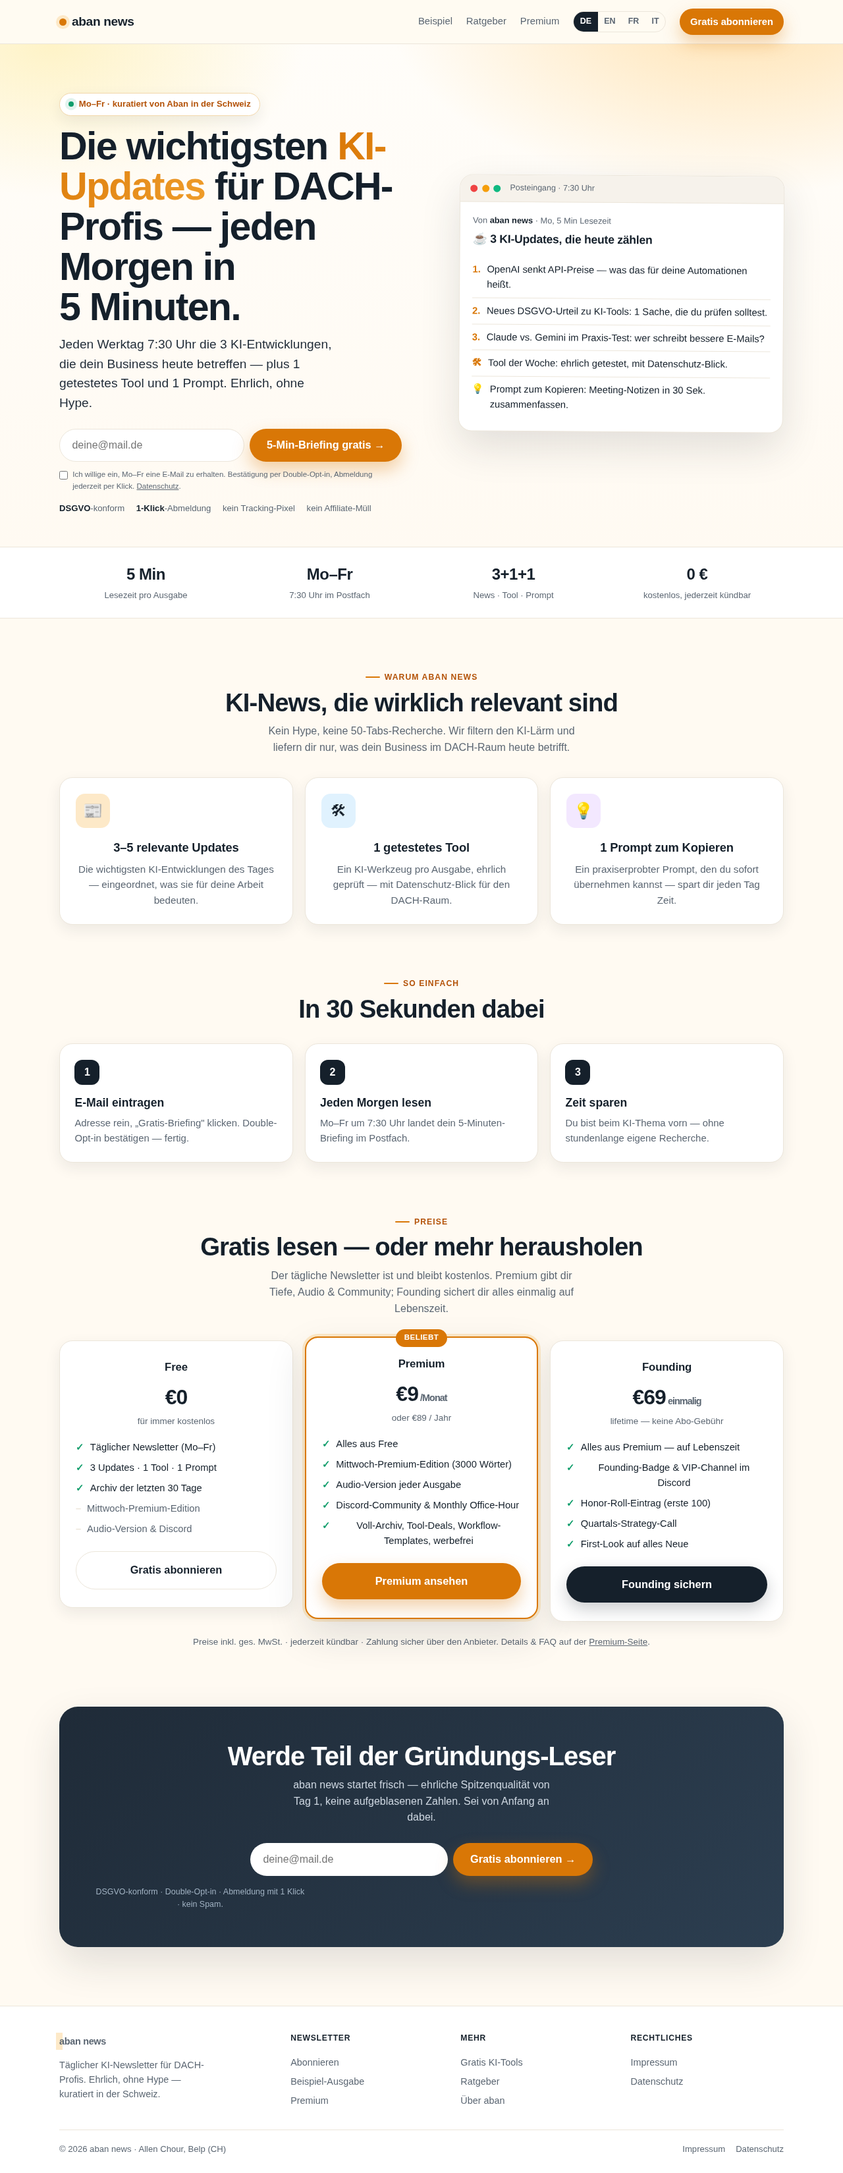
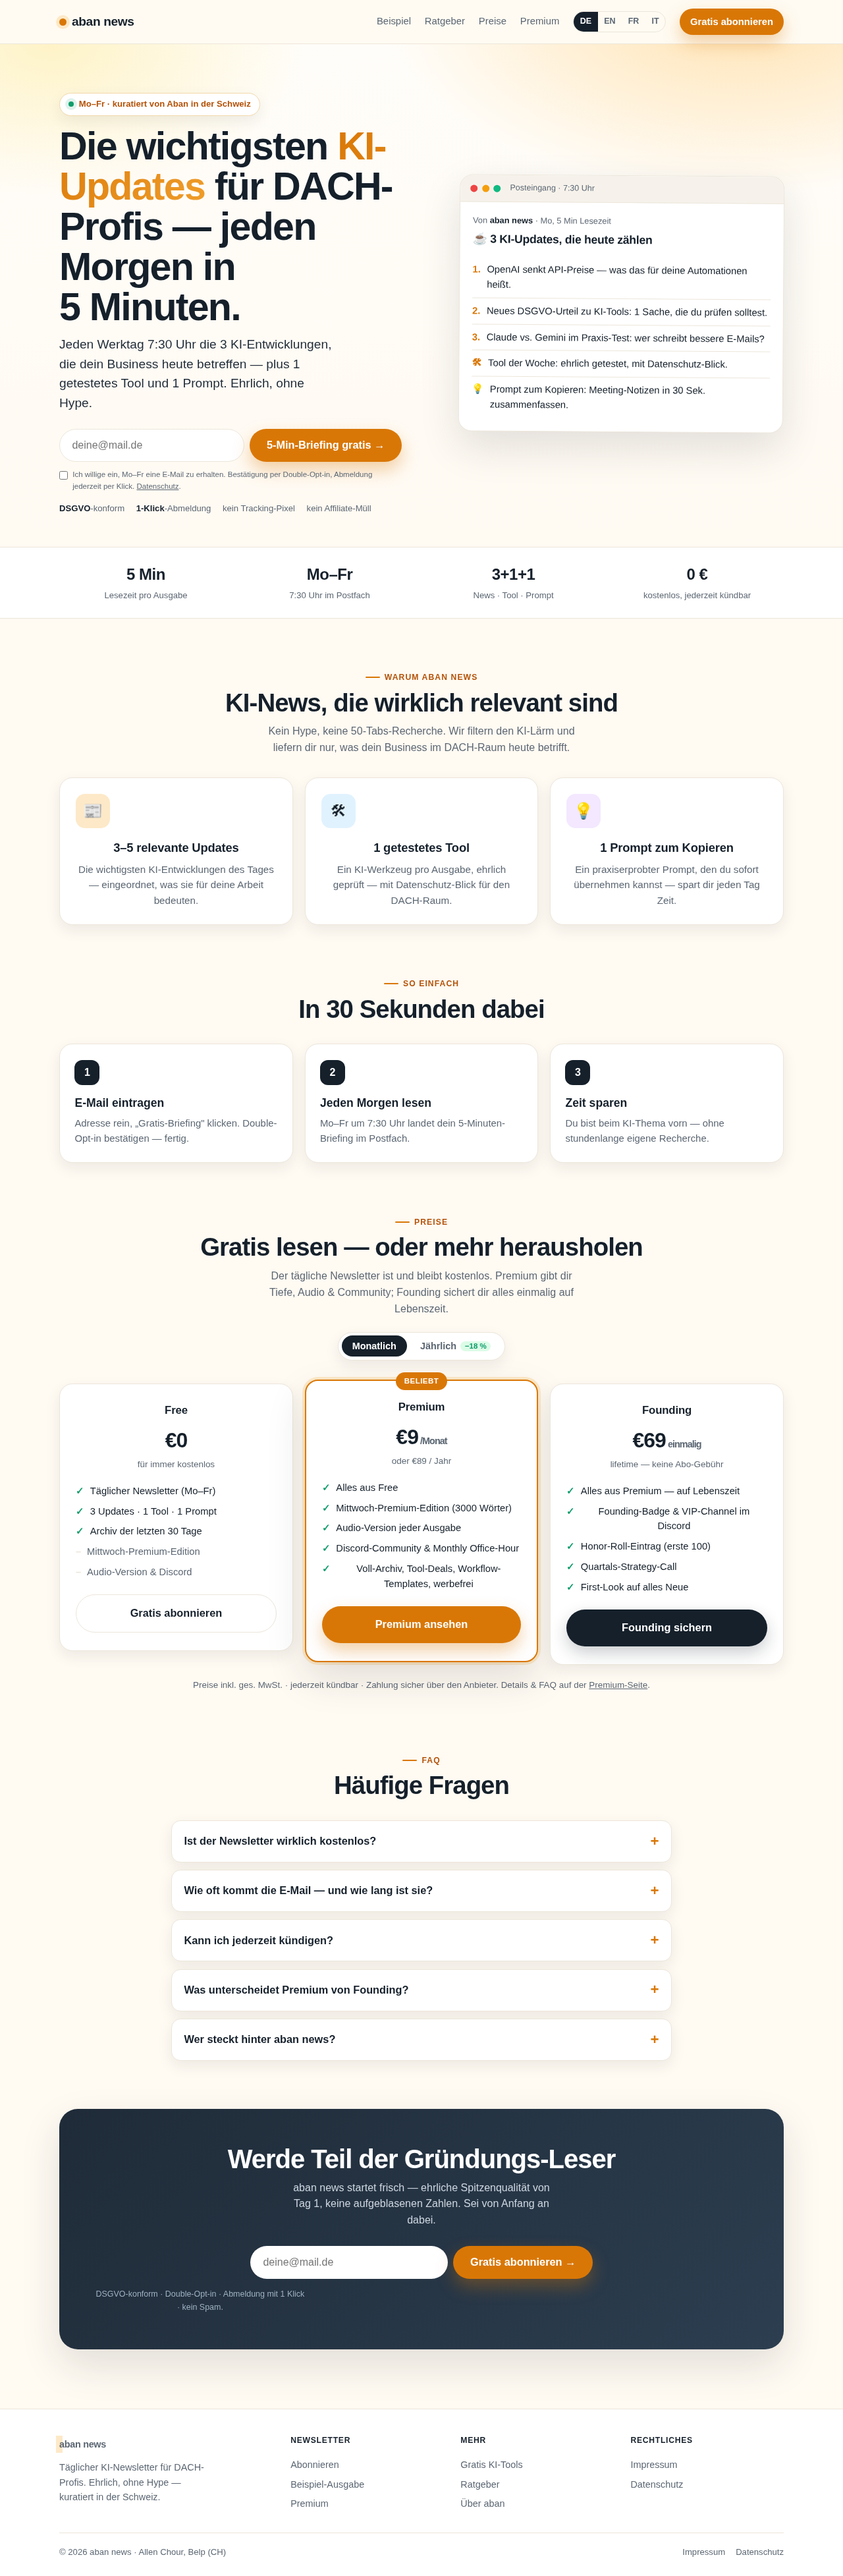
Homepage: Header-Preise-Link + FAQ-Sektion (FAQPage-Schema) + Premium Monats-/Jahres-Toggle (#377)
- Header-Nav: Link 'Preise' -> #preise
- FAQ-Sektion (#faq, 5 Fragen, details/summary-Akkordeon) + FAQPage-JSON-LD
  zeichengenau wortgleich zum sichtbaren Text (geprueft)
- Premium-Preis Monats-/Jahres-Umschalter (EUR9/Monat <-> EUR89/Jahr, 'entspricht EUR7,42/Monat',
  -18%-Badge), accessible (aria-pressed). Free/Founding unveraendert.
html-validate sauber, 3 JSON-LD-Bloecke valide.

https://claude.ai/code/session_015P6UqfbVRFytgmmG9MwAyG

diff --git a/index.html b/index.html
@@ -113,6 +113,11 @@
     .stepc h3{margin:0 0 .35rem;font-size:1.1rem}.stepc p{margin:0;color:var(--muted);font-size:.93rem}
 
     /* pricing */
+    .toggle{display:inline-flex;gap:.25rem;margin-top:1.4rem;background:#fff;border:1px solid var(--line);border-radius:999px;padding:.28rem;box-shadow:var(--shadow-sm)}
+    .toggle button{border:0;background:transparent;cursor:pointer;font-weight:800;font-size:.9rem;color:var(--muted);padding:.5rem 1rem;border-radius:999px;display:inline-flex;align-items:center;gap:.4rem;transition:.15s}
+    .toggle button.on{background:var(--ink);color:#fff}
+    .toggle .save{font-size:.72rem;font-weight:800;color:var(--ok);background:#dcfce7;padding:.1rem .4rem;border-radius:999px}
+    .toggle button.on .save{color:#0b3;background:#eafff3}
     .prices{display:grid;grid-template-columns:repeat(3,1fr);gap:1.1rem;margin-top:2.2rem;align-items:start}
     .price{position:relative;background:#fff;border:1px solid var(--line);border-radius:var(--r);padding:1.7rem 1.5rem;box-shadow:var(--shadow-sm);display:flex;flex-direction:column}
     .price.feat{border:2px solid var(--amber);box-shadow:var(--shadow),0 0 0 4px var(--amber-lt);transform:translateY(-6px)}
@@ -127,6 +132,15 @@
     .price li.no{color:var(--muted)}.price li.no::before{content:"–";color:var(--line);font-weight:900}
     .price .btn{width:100%;margin-top:auto}
     .pfine{text-align:center;color:var(--muted);font-size:.84rem;margin-top:1.2rem}
+
+    /* FAQ */
+    .faq{max-width:760px;margin:2rem auto 0;text-align:left;display:grid;gap:.7rem}
+    .faq details{background:#fff;border:1px solid var(--line);border-radius:14px;padding:.2rem 1.15rem;box-shadow:var(--shadow-sm)}
+    .faq summary{list-style:none;cursor:pointer;font-weight:800;font-size:1.02rem;padding:.95rem 0;display:flex;justify-content:space-between;align-items:center;gap:1rem}
+    .faq summary::-webkit-details-marker{display:none}
+    .faq summary::after{content:"+";font-size:1.4rem;font-weight:700;color:var(--amber);line-height:1}
+    .faq details[open] summary::after{content:"–"}
+    .faq p{margin:0 0 1rem;color:var(--muted);font-size:.96rem}
 
     /* CTA band */
     .band{background:linear-gradient(135deg,#1f2b38,#2c3e50);color:#fff;border-radius:28px;padding:clamp(2rem,5vw,3.4rem);text-align:center;box-shadow:var(--shadow)}
@@ -161,6 +175,9 @@
   <script type="application/ld+json">
   {"@context":"https://schema.org","@type":"Organization","@id":"https://abannews.com/#organization","name":"aban news","url":"https://abannews.com/","logo":"https://abannews.com/og-image.png","founder":{"@type":"Person","name":"Allen Chour"},"foundingLocation":"Belp, CH"}
   </script>
+  <script type="application/ld+json">
+  {"@context": "https://schema.org", "@type": "FAQPage", "mainEntity": [{"@type": "Question", "name": "Ist der Newsletter wirklich kostenlos?", "acceptedAnswer": {"@type": "Answer", "text": "Ja. Die tägliche Ausgabe (Mo–Fr) ist und bleibt gratis — ohne versteckte Kosten. Premium und Founding sind optionale Upgrades für mehr Tiefe, Audio und Community."}}, {"@type": "Question", "name": "Wie oft kommt die E-Mail — und wie lang ist sie?", "acceptedAnswer": {"@type": "Answer", "text": "Jeden Werktag um 7:30 Uhr, in rund 5 Minuten gelesen: 3 relevante KI-Updates, 1 getestetes Tool und 1 Prompt zum Kopieren. Am Wochenende ist Ruhe."}}, {"@type": "Question", "name": "Kann ich jederzeit kündigen?", "acceptedAnswer": {"@type": "Answer", "text": "Ja, mit einem Klick über den Abmelde-Link in jeder E-Mail. Die Anmeldung läuft per Double-Opt-in, deine Daten werden DSGVO-konform behandelt — kein Tracking-Pixel."}}, {"@type": "Question", "name": "Was unterscheidet Premium von Founding?", "acceptedAnswer": {"@type": "Answer", "text": "Premium kostet €9 pro Monat oder €89 pro Jahr und bringt Mittwoch-Premium-Edition, Audio, Discord und mehr. Founding ist eine einmalige Zahlung von €69 und sichert dir alle Premium-Inhalte auf Lebenszeit plus Founding-Extras."}}, {"@type": "Question", "name": "Wer steckt hinter aban news?", "acceptedAnswer": {"@type": "Answer", "text": "aban news wird von Allen Chour in Belp (Schweiz) kuratiert — kein anonymes Netzwerk. Impressum und Datenschutz sind im Footer verlinkt, Hintergründe findest du auf der Über-Seite."}}]}
+  </script>
 </head>
 <body>
 <a class="skip" href="#main">Zum Inhalt springen</a>
@@ -170,6 +187,7 @@
     <nav class="hnav" aria-label="Hauptnavigation">
       <a href="/preview.html" class="lk">Beispiel</a>
       <a href="/ki-ratgeber.html" class="lk">Ratgeber</a>
+      <a href="#preise" class="lk">Preise</a>
       <a href="/founding.html" class="lk">Premium</a>
       <span class="lang" role="group" aria-label="Sprache wählen"><a href="/" class="on" aria-current="page">DE</a><a href="/en/">EN</a><a href="/fr/">FR</a><a href="/it/">IT</a></span>
       <a href="#signup" class="btn btn--amber btn--sm">Gratis abonnieren</a>
@@ -254,6 +272,10 @@
       <span class="eyebrow">Preise</span>
       <h2>Gratis lesen — oder mehr herausholen</h2>
       <p class="sub">Der tägliche Newsletter ist und bleibt kostenlos. Premium gibt dir Tiefe, Audio &amp; Community; Founding sichert dir alles einmalig auf Lebenszeit.</p>
+      <div class="toggle" role="group" aria-label="Abrechnungszeitraum für Premium">
+        <button type="button" id="t-mo" class="on" aria-pressed="true">Monatlich</button>
+        <button type="button" id="t-yr" aria-pressed="false">Jährlich <span class="save">−18&nbsp;%</span></button>
+      </div>
       <div class="prices">
         <!-- Free -->
         <div class="price">
@@ -273,8 +295,8 @@
         <div class="price feat">
           <span class="tag">Beliebt</span>
           <div class="pname">Premium</div>
-          <div class="pp">€9<small> /Monat</small></div>
-          <div class="psub">oder €89 / Jahr</div>
+          <div class="pp" id="prem-pp">€9<small> /Monat</small></div>
+          <div class="psub" id="prem-sub">oder €89 / Jahr</div>
           <ul>
             <li>Alles aus Free</li>
             <li>Mittwoch-Premium-Edition (3000 Wörter)</li>
@@ -300,6 +322,36 @@
         </div>
       </div>
       <p class="pfine">Preise inkl. ges. MwSt. · jederzeit kündbar · Zahlung sicher über den Anbieter. Details &amp; FAQ auf der <a href="/founding.html">Premium-Seite</a>.</p>
+    </div>
+  </section>
+
+  <!-- FAQ -->
+  <section class="sec" id="faq" style="padding-top:0">
+    <div class="wrap center">
+      <span class="eyebrow">FAQ</span>
+      <h2>Häufige Fragen</h2>
+      <div class="faq">
+        <details>
+          <summary>Ist der Newsletter wirklich kostenlos?</summary>
+          <p>Ja. Die tägliche Ausgabe (Mo–Fr) ist und bleibt gratis — ohne versteckte Kosten. Premium und Founding sind optionale Upgrades für mehr Tiefe, Audio und Community.</p>
+        </details>
+        <details>
+          <summary>Wie oft kommt die E-Mail — und wie lang ist sie?</summary>
+          <p>Jeden Werktag um 7:30 Uhr, in rund 5 Minuten gelesen: 3 relevante KI-Updates, 1 getestetes Tool und 1 Prompt zum Kopieren. Am Wochenende ist Ruhe.</p>
+        </details>
+        <details>
+          <summary>Kann ich jederzeit kündigen?</summary>
+          <p>Ja, mit einem Klick über den Abmelde-Link in jeder E-Mail. Die Anmeldung läuft per Double-Opt-in, deine Daten werden DSGVO-konform behandelt — kein Tracking-Pixel.</p>
+        </details>
+        <details>
+          <summary>Was unterscheidet Premium von Founding?</summary>
+          <p>Premium kostet €9 pro Monat oder €89 pro Jahr und bringt Mittwoch-Premium-Edition, Audio, Discord und mehr. Founding ist eine einmalige Zahlung von €69 und sichert dir alle Premium-Inhalte auf Lebenszeit plus Founding-Extras.</p>
+        </details>
+        <details>
+          <summary>Wer steckt hinter aban news?</summary>
+          <p>aban news wird von Allen Chour in Belp (Schweiz) kuratiert — kein anonymes Netzwerk. Impressum und Datenschutz sind im Footer verlinkt, Hintergründe findest du auf der Über-Seite.</p>
+        </details>
+      </div>
     </div>
   </section>
 
@@ -342,6 +394,17 @@
     document.querySelectorAll('form.cta').forEach(function(f){
       f.addEventListener('submit',function(){var b=f.querySelector('button');if(b){b.textContent='Wird geöffnet…';b.disabled=true;}});
     });
+    // Premium Monats-/Jahres-Umschalter
+    var mo=document.getElementById('t-mo'),yr=document.getElementById('t-yr'),
+        pp=document.getElementById('prem-pp'),sub=document.getElementById('prem-sub');
+    function setP(per){
+      var m=per==='mo';
+      pp.innerHTML= m ? '€9<small> /Monat</small>' : '€89<small> /Jahr</small>';
+      sub.textContent= m ? 'oder €89 / Jahr' : 'entspricht €7,42 / Monat';
+      mo.classList.toggle('on',m); yr.classList.toggle('on',!m);
+      mo.setAttribute('aria-pressed',m); yr.setAttribute('aria-pressed',!m);
+    }
+    if(mo&&yr){mo.addEventListener('click',function(){setP('mo')});yr.addEventListener('click',function(){setP('yr')});}
   })();
 </script>
 </body>
